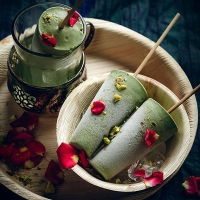
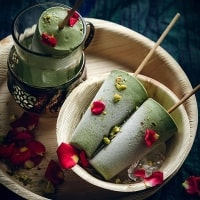
changes

diff --git a/index.html b/index.html
@@ -24,16 +24,16 @@
                     <div class="gallery__column">
                         <picture class="gallery__picture">
                             <source srcset="
-                                                    ./images/gallery/gallery1.jpg 1x,
-                                                    ./images/gallery/gallery1.jpg 2x
+                                                    ./images/gallery/gallery-1-desk.jpg 1x,
+                                                    ./images/gallery/gallery-1-desk-2x.jpg 2x
                                                     " media="(min-width: 1200px)" />
                             <source srcset="
-                                                    ./images/gallery/gallery-1-desk.jpg 1x,
-                                                    ./images/gallery/gallery-1-desk-2x.jpg 2x
+                                                    ./images/gallery/gallery-1-tab.jpg 1x,
+                                                    ./images/gallery/gallery-1-tab-2x.jpg 2x
                                                     " media="(min-width: 768px)" />
                             <source srcset="
-                                                    ./images/gallery/gallery-1-desk.jpg 1x,
-                                                    ./images/gallery/gallery-1-desk-2x.jpg 2x
+                                                    ./images/gallery/gallery-1-mob.jpg 1x,
+                                                    ./images/gallery/gallery-1-mob-2x.jpg 2x
                                                     " media="(min-width: 320px)" />
                             <img class="gallery__img" src="./images/gallery/gallery-1-desk.jpg" alt="Gallery">
                         </picture>
